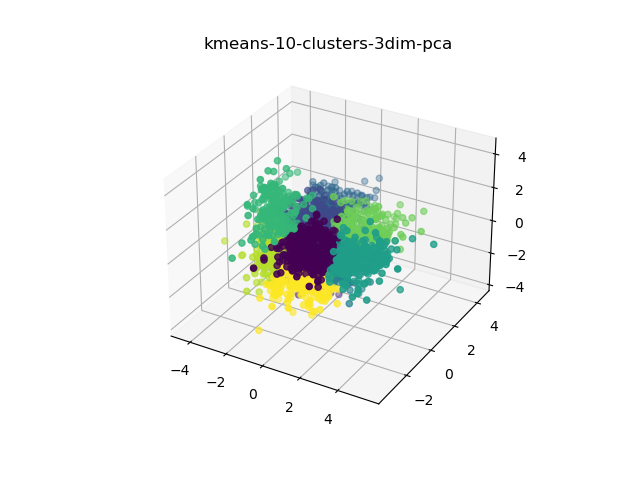
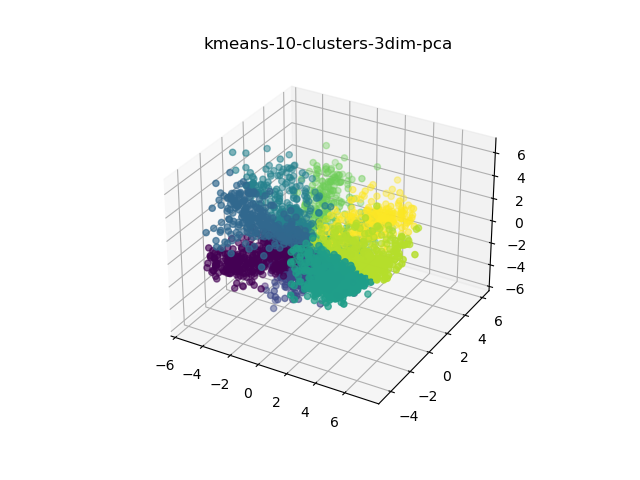
newest clustering results

diff --git a/clustering.py b/clustering.py
@@ -12,6 +12,9 @@ from sklearn.metrics.pairwise import cosine_distances
 import torch as T
 from matplotlib import pyplot as plt
 import numpy as np
+from nltk.cluster.kmeans import KMeansClusterer
+import nltk
+
 
 if __name__ == '__main__':
     # SETUP ARGUMENT PARSER
@@ -22,8 +25,10 @@ if __name__ == '__main__':
     argpar.add_argument("-noload", action="store_true")
     argpar.add_argument("-train", action="store_true")
     argpar.add_argument("-fused", action="store_true")
+    argpar.add_argument("-pca", action="store_true")
+    argpar.add_argument("-actions", action="store_true")
     args = argpar.parse_args()
-    NAME = f"kmeans-{'fused-' if args.fused else ''}{args.ncluster}-clusters-3dim-pca"
+    NAME = f"kmeans-{'fused-' if args.fused else ''}{args.ncluster}-clusters-3dim-{'pca' if args.pca else ''}"
 
     # SETUP PARSER
     parser = parser.ActionSeqParser(include_augmented=False, include_default=True)
@@ -63,19 +68,26 @@ if __name__ == '__main__':
     X = model.centers.detach().numpy()
     if args.fused:
         X += model.contexts.detach().numpy()
-    pca = PCA(n_components=3)
-    X = pca.fit_transform(X)
+    if args.pca:
+        pca = PCA(n_components=3)
+        X = pca.fit_transform(X)
     print("SHAPE", X.shape)
 
-    clusterer = KMeans(n_clusters=args.ncluster).fit(X)
+    #clusterer = KMeans(n_clusters=args.ncluster).fit(X)
+    clusterer = KMeansClusterer(args.ncluster, distance=nltk.cluster.util.cosine_distance, repeats=10)
+    labels = clusterer.cluster(X, assign_clusters=True)
+    #print("assigned embeds:", assigned_embeddings)
     #clusterer = DBSCAN(metric="cosine").fit(X)
-    cluster_centers = pca.inverse_transform(clusterer.cluster_centers_)
+    #cluster_centers = pca.inverse_transform(clusterer.cluster_centers_)
 
     writefile = open(f"results/{NAME}.txt", "w")
-    for c_idx, center in enumerate(cluster_centers):
+    for c_idx in range(args.ncluster):
         #print(c_idx, [str(idx_to_action[idx]) for idx in model.get_most_similar_idxs(vec=T.from_numpy(center))], file=writefile)
-        full_actions = [str(idx_to_action[idx]) for idx in range(len(X)) if clusterer.labels_[idx]==c_idx]
-        action_beginnings = [item.split(",")[0] for item in full_actions]
+        full_actions = [str(idx_to_action[idx]) for idx in range(len(X)) if labels[idx]==c_idx]
+        if args.actions:
+            action_beginnings = [item.split(",")[0] for item in full_actions]
+        else:
+            action_beginnings = [item.split("\'")[1] if len(item.split("\'"))>1 else "None" for item in full_actions]
         action_counts = OrderedDict()
         for action in action_beginnings:
             if action in action_counts:
@@ -87,10 +99,11 @@ if __name__ == '__main__':
         top_action_beginnings =[action_beginning_names[idx] for idx in top_action_beginning_idxs]
         print(c_idx, top_action_beginnings, file=writefile)
 
-    labels = clusterer.labels_
-    fig = plt.figure()
-    ax = plt.axes(projection ='3d')
-    ax.scatter(X[:,0],X[:,1],X[:,2], c=labels)
-    ax.set_title(NAME)
-    plt.savefig(f"results/{NAME}.png")
-    plt.show()
+    #labels = clusterer.labels_
+    if args.pca:
+        fig = plt.figure()
+        ax = plt.axes(projection ='3d')
+        ax.scatter(X[:,0],X[:,1],X[:,2], c=labels)
+        ax.set_title(NAME)
+        plt.savefig(f"results/{NAME}.png")
+        plt.show()
